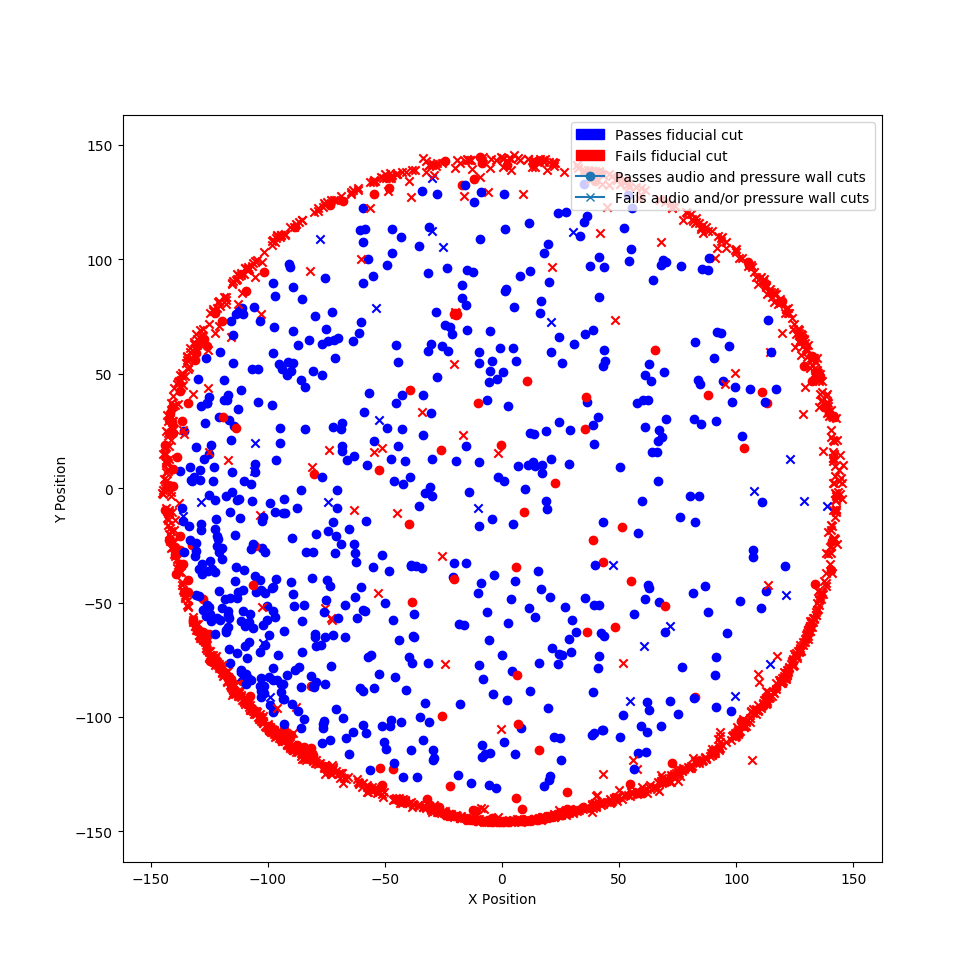
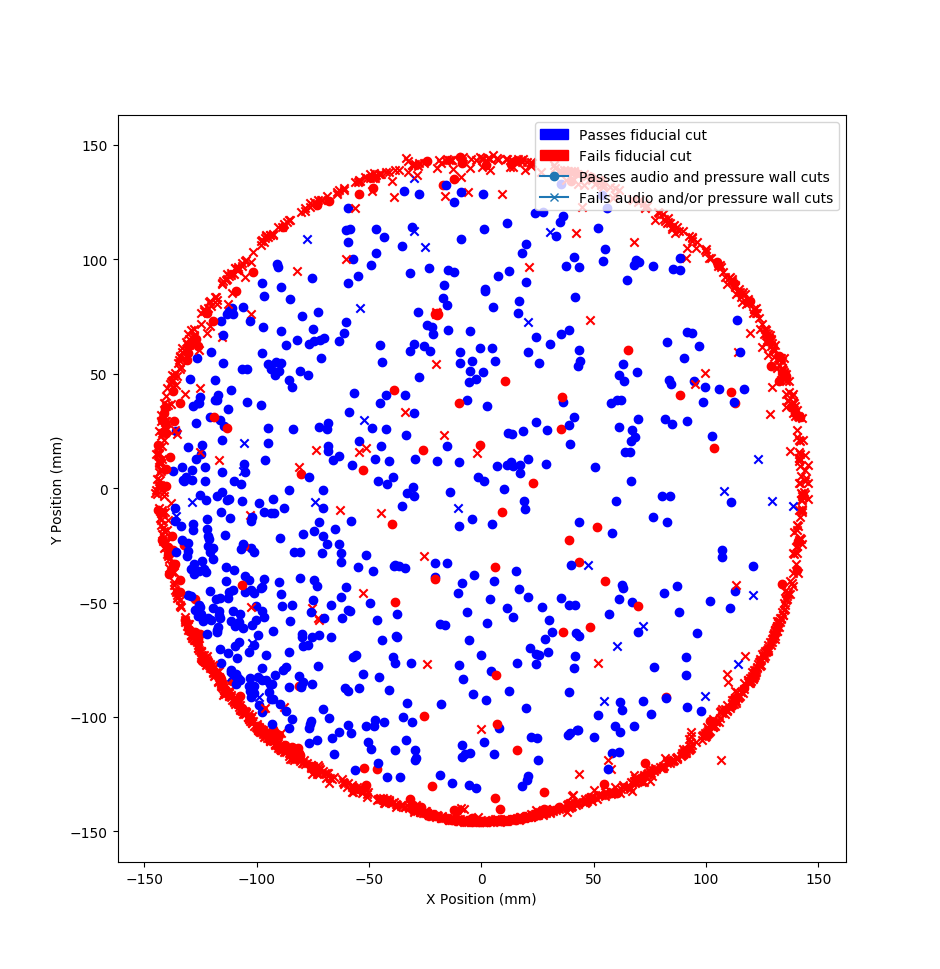
Added axis labels to wall event position graph

diff --git a/visualization/graph_wall_event_positions.py b/visualization/graph_wall_event_positions.py
@@ -52,7 +52,7 @@ fails_audio_line = Line2D([], [], marker='x', label='Fails audio and/or pressure
 # Display them in a legend
 plt.legend(handles=[passes_fiducial_patch, fails_fiducial_patch, passes_audio_line, fails_audio_line])
 # Label the X and Y axes
-plt.xlabel('X Position')
-plt.ylabel('Y Position')
+plt.xlabel('X Position (mm)')
+plt.ylabel('Y Position (mm)')
 # Display the graph on screen
 plt.show()
